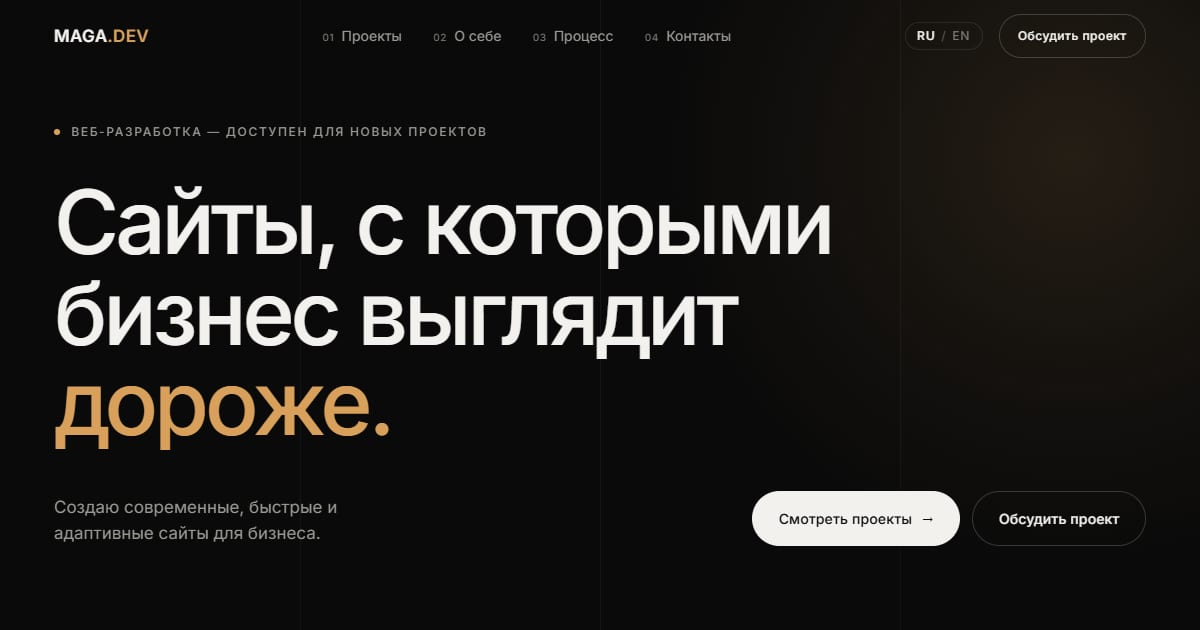
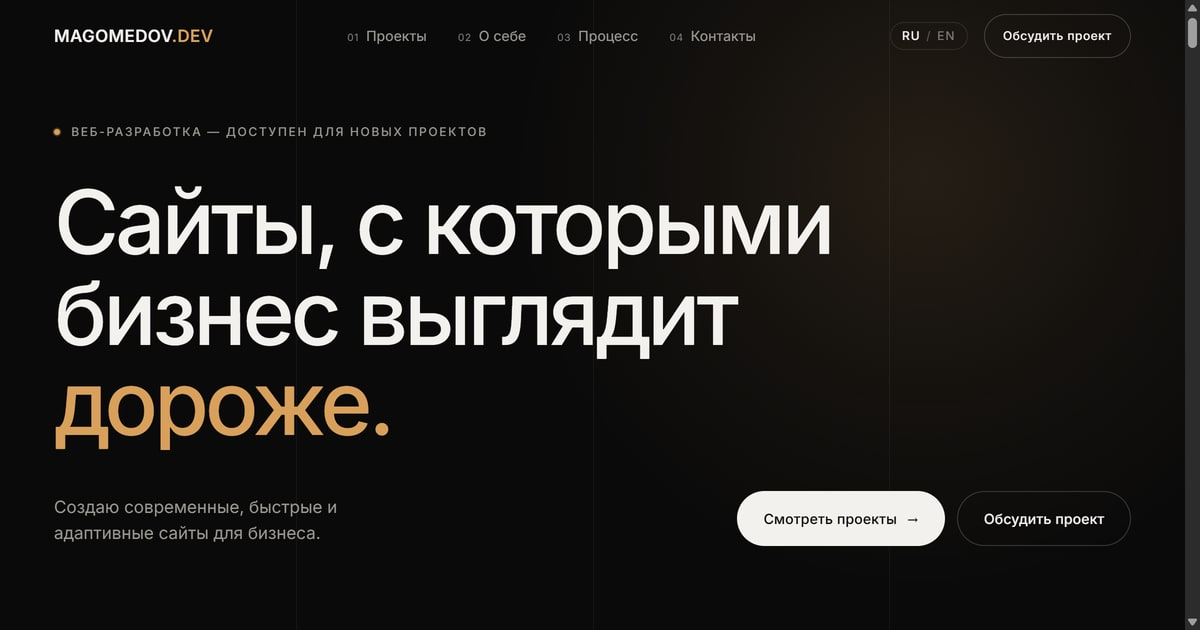
Переименование в MAGOMEDOV.DEV
Имя фамильное, без побочного смысла в английском — на сайте есть переключатель
EN, и прежнее MAGA там читалось не как задумано.

Поменяно везде: логотип в шапке и подвале, title, описание, Open Graph,
Twitter Card, Schema.org, английский словарь, aria-подписи, favicon, README.
OG-картинка пересобрана с новым логотипом, Telegram-бот переименован.

Длинное имя выдавливало кнопку меню за край экрана на 320px — на узких
экранах логотип и зазоры ужаты, область нажатия осталась 44px.

diff --git a/index.html b/index.html
@@ -3,9 +3,9 @@
 <head>
 <meta charset="utf-8">
 <meta name="viewport" content="width=device-width, initial-scale=1, viewport-fit=cover">
-<title>MAGA.DEV — Разработка современных сайтов для бизнеса</title>
-<meta name="description" content="MAGA.DEV — веб-разработка современных, быстрых и адаптивных сайтов для бизнеса. Три реальных проекта: детейлинг-студия, ресторан и архитектурное бюро.">
-<meta name="author" content="MAGA.DEV">
+<title>MAGOMEDOV.DEV — Разработка современных сайтов для бизнеса</title>
+<meta name="description" content="MAGOMEDOV.DEV — веб-разработка современных, быстрых и адаптивных сайтов для бизнеса. Три реальных проекта: детейлинг-студия, ресторан и архитектурное бюро.">
+<meta name="author" content="MAGOMEDOV.DEV">
 <meta name="theme-color" content="#0a0a0a">
 <meta name="color-scheme" content="dark">
 <!-- max-image-preview:large — чтобы в поиске показывалась крупная картинка проекта -->
@@ -14,17 +14,17 @@
 
 <!-- Open Graph / Twitter -->
 <meta property="og:type" content="website">
-<meta property="og:site_name" content="MAGA.DEV">
+<meta property="og:site_name" content="MAGOMEDOV.DEV">
 <meta property="og:locale" content="ru_RU">
-<meta property="og:title" content="MAGA.DEV — Разработка современных сайтов для бизнеса">
+<meta property="og:title" content="MAGOMEDOV.DEV — Разработка современных сайтов для бизнеса">
 <meta property="og:description" content="Создаю современные, быстрые и адаптивные сайты для бизнеса. Три реальных проекта: VELAR DETAIL, SHAFRAN, ATLAS ARCHITECTS.">
 <meta property="og:url" content="https://magomedovmg71-lgtm.github.io/">
 <meta property="og:image" content="https://magomedovmg71-lgtm.github.io/images/og-image.jpg">
 <meta property="og:image:width" content="1200">
 <meta property="og:image:height" content="630">
-<meta property="og:image:alt" content="MAGA.DEV — веб-разработка">
+<meta property="og:image:alt" content="MAGOMEDOV.DEV — веб-разработка">
 <meta name="twitter:card" content="summary_large_image">
-<meta name="twitter:title" content="MAGA.DEV — Разработка современных сайтов для бизнеса">
+<meta name="twitter:title" content="MAGOMEDOV.DEV — Разработка современных сайтов для бизнеса">
 <meta name="twitter:description" content="Создаю современные, быстрые и адаптивные сайты для бизнеса.">
 <meta name="twitter:image" content="https://magomedovmg71-lgtm.github.io/images/og-image.jpg">
 
@@ -46,7 +46,7 @@
       "@type": "WebSite",
       "@id": "https://magomedovmg71-lgtm.github.io/#website",
       "url": "https://magomedovmg71-lgtm.github.io/",
-      "name": "MAGA.DEV",
+      "name": "MAGOMEDOV.DEV",
       "description": "Веб-разработка современных сайтов для бизнеса",
       "inLanguage": ["ru-RU", "en"],
       "publisher": { "@id": "https://magomedovmg71-lgtm.github.io/#person" }
@@ -54,7 +54,7 @@
     {
       "@type": "Person",
       "@id": "https://magomedovmg71-lgtm.github.io/#person",
-      "name": "MAGA.DEV",
+      "name": "MAGOMEDOV.DEV",
       "jobTitle": "Веб-разработчик",
       "email": "mailto:magomedovmg71@gmail.com",
       "telephone": "+79226765715",
@@ -125,8 +125,8 @@
 <!-- ============================================================ HEADER -->
 <header class="site-header" id="site-header">
   <div class="site-header__inner">
-    <a class="wordmark" href="#top" data-i18n-aria="a11y.home" aria-label="MAGA.DEV — на главную">
-      <span class="wordmark__main">MAGA</span><span class="wordmark__accent">.DEV</span>
+    <a class="wordmark" href="#top" data-i18n-aria="a11y.home" aria-label="MAGOMEDOV.DEV — на главную">
+      <span class="wordmark__main">MAGOMEDOV</span><span class="wordmark__accent">.DEV</span>
     </a>
 
     <nav class="nav" id="nav" data-i18n-aria="a11y.nav" aria-label="Основная навигация">
@@ -643,7 +643,7 @@
   <div class="container">
     <div class="site-footer__top">
       <div class="site-footer__brand">
-        <p class="wordmark wordmark--lg"><span class="wordmark__main">MAGA</span><span class="wordmark__accent">.DEV</span></p>
+        <p class="wordmark wordmark--lg"><span class="wordmark__main">MAGOMEDOV</span><span class="wordmark__accent">.DEV</span></p>
         <p class="site-footer__tagline" data-i18n="footer.tagline">Веб-разработка и цифровые продукты.</p>
       </div>
 
@@ -670,8 +670,8 @@
     </div>
 
     <div class="site-footer__bottom">
-      <p>&copy; <span id="year">2026</span> MAGA.DEV</p>
-      <p data-i18n="footer.by">Дизайн и разработка — MAGA.DEV</p>
+      <p>&copy; <span id="year">2026</span> MAGOMEDOV.DEV</p>
+      <p data-i18n="footer.by">Дизайн и разработка — MAGOMEDOV.DEV</p>
     </div>
   </div>
 </footer>

diff --git a/js/i18n.js b/js/i18n.js
@@ -1,5 +1,5 @@
 /* ==========================================================================
-   MAGA.DEV — RU / EN
+   MAGOMEDOV.DEV — RU / EN
 
    Russian is the source language and lives directly in index.html, so the page
    is complete and readable without JavaScript. This file holds the English
@@ -28,7 +28,7 @@ window.MagaI18n = (function () {
   var EN = {
     /* Accessibility labels */
     'a11y.skip': 'Skip to content',
-    'a11y.home': 'MAGA.DEV — back to top',
+    'a11y.home': 'MAGOMEDOV.DEV — back to top',
     'a11y.nav': 'Main navigation',
     'a11y.footerNav': 'Footer navigation',
     'a11y.caseClose': 'Close case study',
@@ -174,7 +174,7 @@ window.MagaI18n = (function () {
     'footer.links': 'Elsewhere',
     'footer.email': 'Email',
     'footer.code': 'Atlas source <span aria-hidden="true">↗</span>',
-    'footer.by': 'Designed &amp; built by MAGA.DEV',
+    'footer.by': 'Designed &amp; built by MAGOMEDOV.DEV',
 
     /* Case studies — shared headings */
     'case.h1': 'Project',
@@ -212,8 +212,8 @@ window.MagaI18n = (function () {
     'c3.s6': 'The site is published and its source code is open on GitHub. It is the most editorial and the most technically complete of the three: two languages, an interactive slider and a full set of SEO and accessibility work.',
 
     /* Runtime strings */
-    'meta.title': 'MAGA.DEV — Modern websites for business',
-    'meta.description': 'MAGA.DEV — modern, fast and responsive websites for business. Three real projects: a detailing studio, a restaurant and an architecture practice.',
+    'meta.title': 'MAGOMEDOV.DEV — Modern websites for business',
+    'meta.description': 'MAGOMEDOV.DEV — modern, fast and responsive websites for business. Three real projects: a detailing studio, a restaurant and an architecture practice.',
     'a11y.menuOpen': 'Open menu',
     'a11y.menuClose': 'Close menu',
     'a11y.lang': 'Переключить на русский',
@@ -242,8 +242,8 @@ window.MagaI18n = (function () {
 
   /* Runtime strings that are not present anywhere in the markup. */
   var RU = {
-    'meta.title': 'MAGA.DEV — Разработка современных сайтов для бизнеса',
-    'meta.description': 'MAGA.DEV — веб-разработка современных, быстрых и адаптивных сайтов для бизнеса. Три реальных проекта: детейлинг-студия, ресторан и архитектурное бюро.',
+    'meta.title': 'MAGOMEDOV.DEV — Разработка современных сайтов для бизнеса',
+    'meta.description': 'MAGOMEDOV.DEV — веб-разработка современных, быстрых и адаптивных сайтов для бизнеса. Три реальных проекта: детейлинг-студия, ресторан и архитектурное бюро.',
     'a11y.menuOpen': 'Открыть меню',
     'a11y.menuClose': 'Закрыть меню',
     'a11y.lang': 'Switch to English',

diff --git a/css/style.css b/css/style.css
@@ -436,7 +436,17 @@ p { text-wrap: pretty; }
   font-weight: 600;
   letter-spacing: 0.02em;
   line-height: 1;
+  white-space: nowrap;
   z-index: 2;
+}
+
+/* Логотип длинный, и на узких экранах он выдавливал бургер за край.
+   Ужимаем шрифт и зазоры — переключатель языка и кнопка меню остаются
+   на месте и сохраняют область нажатия. */
+@media (max-width: 430px) {
+  .site-header__inner { gap: 0.75rem; }
+  .wordmark { font-size: 0.875rem; letter-spacing: 0.01em; }
+  .lang { padding: 0.45rem 0.55rem; gap: 0.25rem; }
 }
 
 .wordmark__main { color: var(--text); }

diff --git a/worker/index.js b/worker/index.js
@@ -1,5 +1,5 @@
 /**
- * MAGA.DEV — приём заявок с формы обратной связи.
+ * MAGOMEDOV.DEV — приём заявок с формы обратной связи.
  *
  * Сайт статический и лежит на GitHub Pages, поэтому отправлять заявки напрямую
  * в Telegram он не может: для этого пришлось бы положить токен бота в открытый

diff --git a/js/script.js b/js/script.js
@@ -1,5 +1,5 @@
 /* ==========================================================================
-   MAGA.DEV — behaviour
+   MAGOMEDOV.DEV — behaviour
    Modules:
      initHeaderScroll   — sticky header background on scroll
      initMobileNav      — hamburger drawer

diff --git a/README.md b/README.md
@@ -1,4 +1,4 @@
-# MAGA.DEV — портфолио веб-разработчика
+# MAGOMEDOV.DEV — портфолио веб-разработчика
 
 Одностраничный сайт-портфолио: тёмная премиальная подача, три реальных проекта,
 кейсы и форма связи. Без фреймворков и сборщиков — чистые HTML, CSS и JavaScript.
